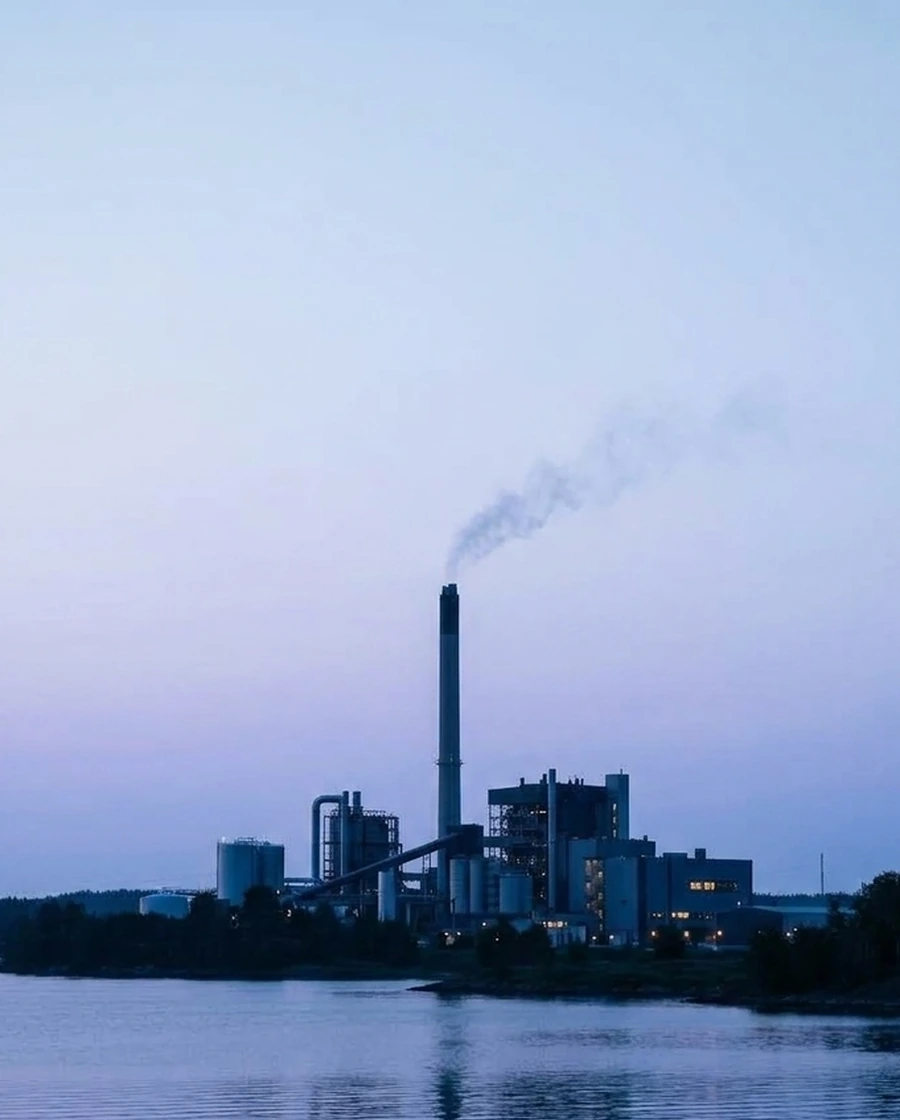
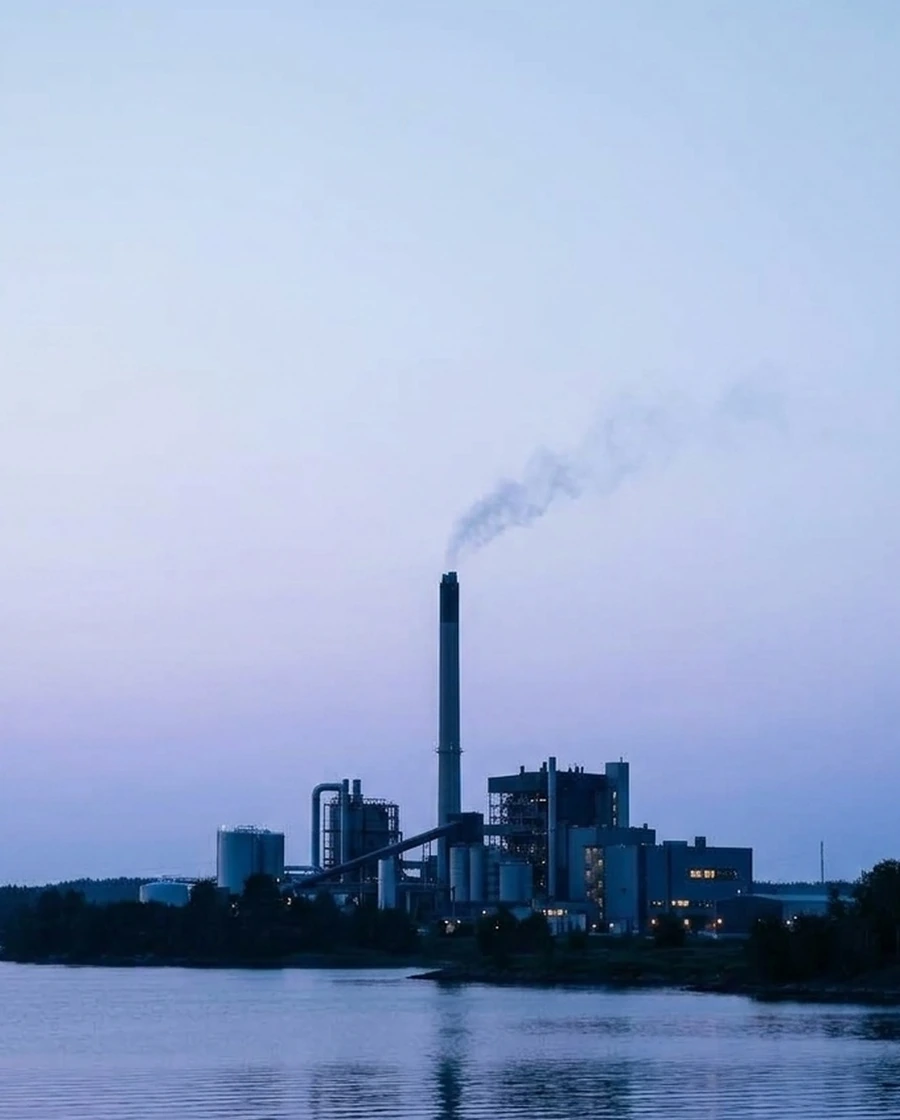
home: foto do carbono 1% mais para cima

diff --git a/index.html b/index.html
@@ -2580,7 +2580,7 @@ body>*{position:relative;z-index:1}
     <!-- 29/09: A TIRA DA HOME e esta, com as quatro fotos feitas no Google Flow, no filtro em cor. A anterior (energia, industria, etica-auditoria, lago-industria -cor-qc) saiu do HTML; os arquivos ficam em img/. -->
     <div class="sh-tira sh-tira--flow">
       <article class="sh-col sh-col--carbono">
-        <img class="sh-foto" src="img/flow-carbono-cor-bayer-fl.webp?v=29092026j" data-lum="img/flow-carbono-cor-fl.webp?v=29092026j" alt="" loading="eager" decoding="sync" fetchpriority="high">
+        <img class="sh-foto" src="img/flow-carbono-cor-bayer-fl.webp?v=29092026k" data-lum="img/flow-carbono-cor-fl.webp?v=29092026k" alt="" loading="eager" decoding="sync" fetchpriority="high">
         <div class="sh-conteudo">
           <div>
             <span class="sh-indice">[ 01 ]</span>
